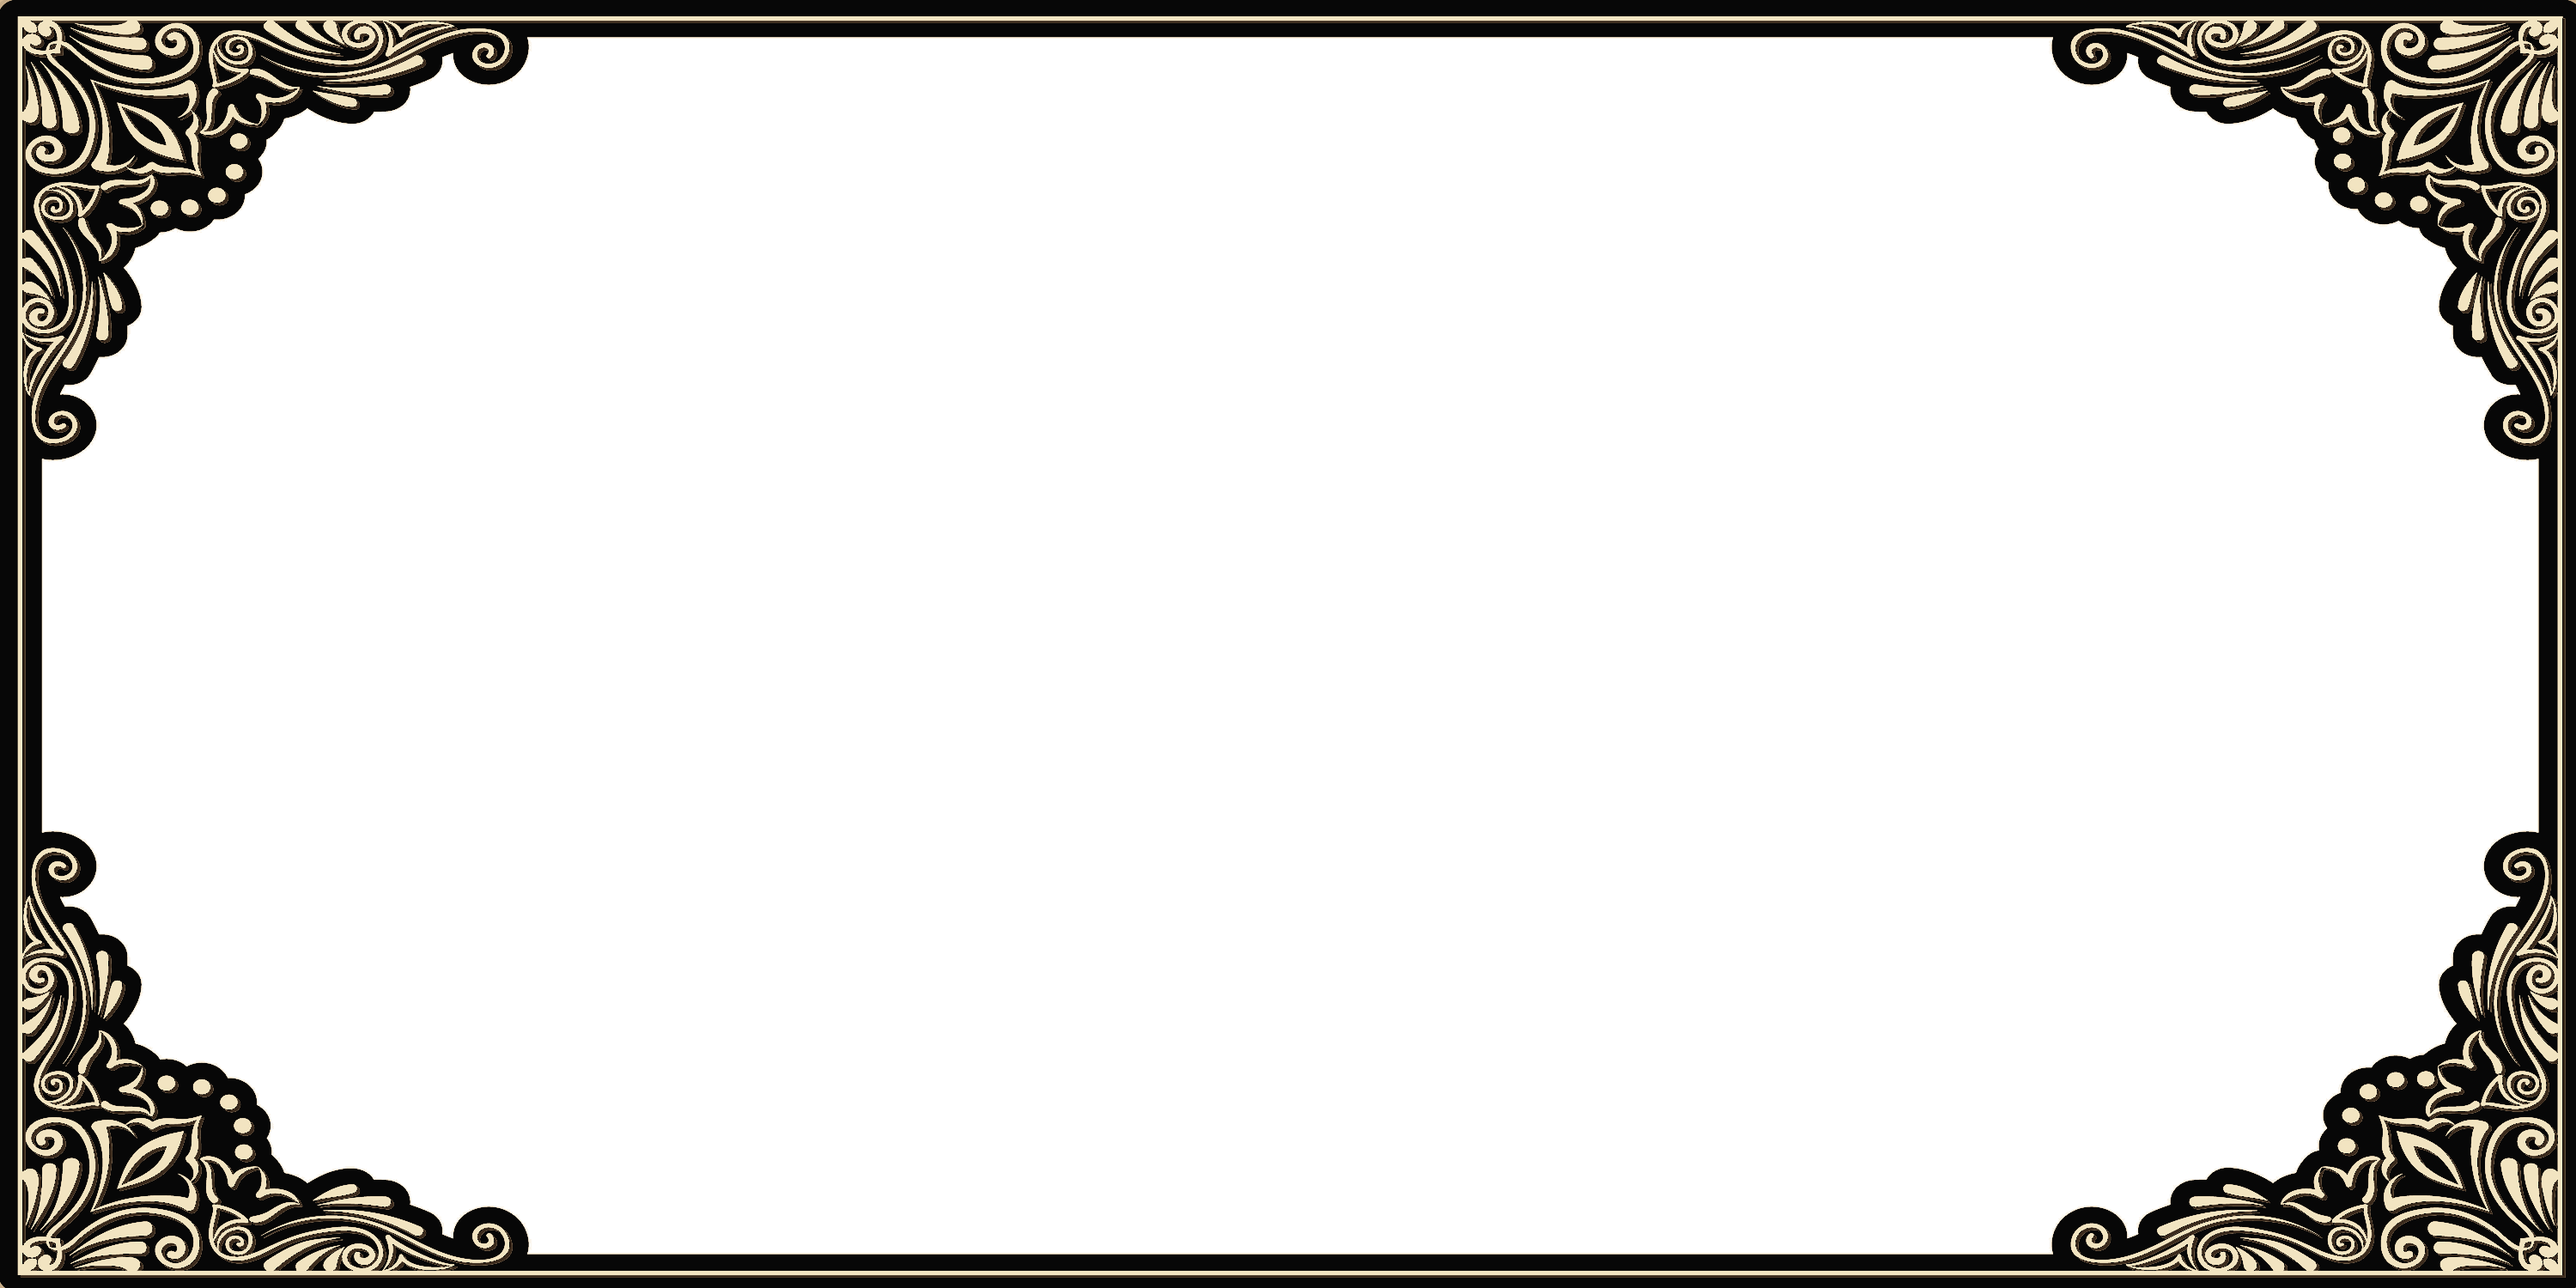
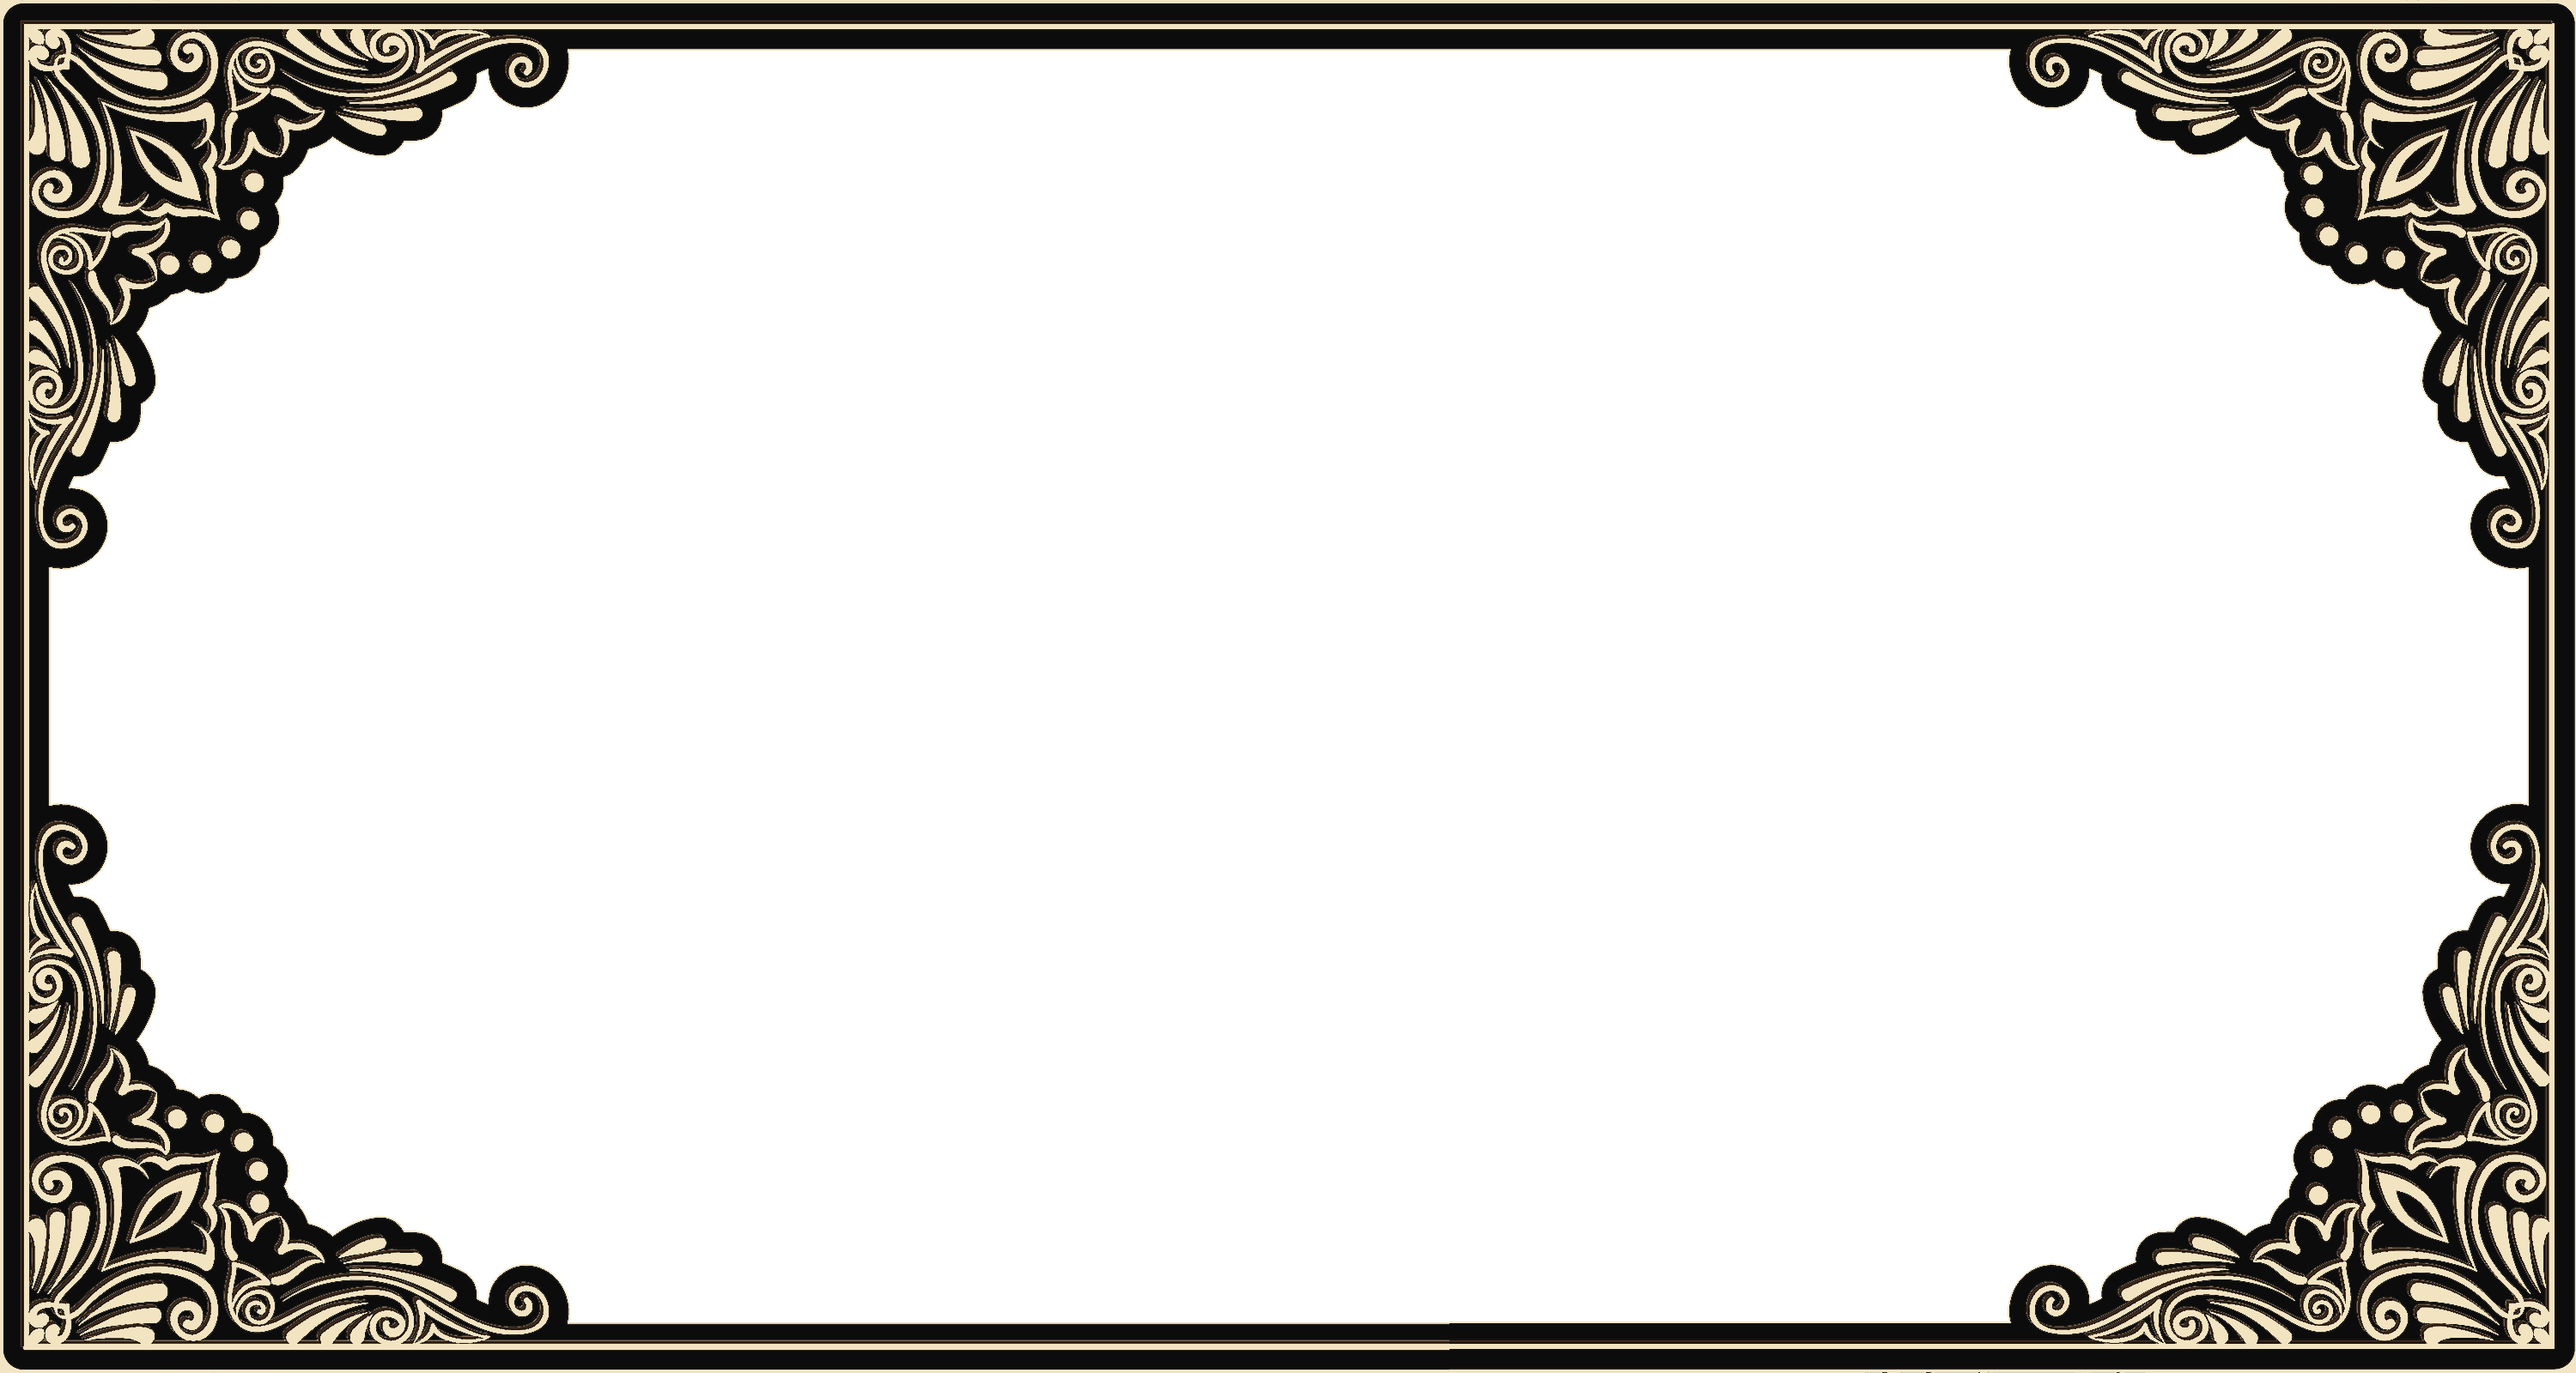
calendar edit

Changed region(s): [[0.0, 0.0, 1.0, 1.0]]

diff --git a/main.css b/main.css
@@ -400,7 +400,7 @@ body {
   opacity: 0;
 }
 
-.toogleItemShowRight{
+.toogleItemShowRight {
   transition: all 0.5s cubic-bezier(0.455, 0.03, 0.515, 0.955);
   right: 0;
   opacity: 1;
@@ -460,15 +460,15 @@ body {
 .cardName {
   position: absolute;
   font-size: 6px;
-  bottom: 3px;
-  left: 63px;
+  bottom: 6px;
+  left: 72px;
 }
 
 .cardRow {
   position: absolute;
   font-size: 11px;
-  bottom: 3px;
-  right: 63px;
+  bottom: 6px;
+  right: 72px;
   opacity: 0.45;
 }
 
@@ -505,7 +505,7 @@ body {
 .flip-card-back {
   background-color: #fff;
   background-image: url("./img/frame.png");
-  background-size: 100% 100%;
+  background-size: cover;
   background-repeat: no-repeat;
   background-position: center center;
 
@@ -572,8 +572,8 @@ body {
 
 .indicateFlip {
   position: absolute;
-  top: 0.7rem;
-  right: 2rem;
+  top: 18px;
+  right: 30px;
   transform: rotate(18deg);
   display: block;
   font-size: 0.9rem;
@@ -600,8 +600,8 @@ body {
 
 .progressFlip {
   position: absolute;
-  top: 15px;
-  left: 40px;
+  top: 18px;
+  left: 36px;
   opacity: 72%;
   color: #c70000;
   font-size: 1rem;
@@ -622,6 +622,8 @@ body {
   align-items: center;
   justify-content: space-between;
   background: #070707;
+  border-top: 0.1px solid #b5a9941f;
+  border-bottom: 0.1px solid #b5a9941f;
 }
 
 .myInputContainer .inputOrnamentCorner {
@@ -867,6 +869,8 @@ body {
   font-family: "Rubik", sans-serif;
   font-size: 12px;
   color: #636363;
+  display: flex;
+  flex-direction: column;
 }
 
 .calendarHeader {
@@ -883,14 +887,14 @@ body {
   justify-content: space-between;
 }
 
-.calendarFooter .weekTitle {
+.calendarCardContent .weekTitle {
   font-weight: lighter;
   border-top: 1px solid #17181a;
   border-bottom: 1px solid #17181a;
 }
 
 .weekDate {
-  height: 27px;
+  height: 30px;
   font-size: 13px;
   text-align: center;
   display: flex;
@@ -905,16 +909,18 @@ body {
   font-weight: bold;
 }
 
-.calendarCardDiv {
+.calendarBody {
   position: relative;
-  min-height: 190px;
+  height: calc(100vh - 245px);
   overflow: hidden;
+  position: relative;
 }
 
 .calendarCardImg {
-  background-size: cover;
-  background-position: center 90%;
-  filter: blur(6px);
+  background-size: 120%;
+  /* background-position: center 90%; */
+  background-position: bottom center;
+  filter: blur(3px);
   position: absolute;
   top: 0;
   right: 0;
@@ -925,7 +931,6 @@ body {
 
 .calendarCardNoise {
[1 lines of base64/hex data omitted]
-  filter: opacity(0.5);
   position: absolute;
   top: 0;
   right: 0;
@@ -934,19 +939,17 @@ body {
   z-index: 1;
 }
 
-.calendarFooter {
-  border-bottom: 1px solid #17181a;
-  padding: 0 9px;
+.calendarCardContent {
   position: absolute;
   top: 0;
   left: 0;
   right: 0;
   bottom: 0;
   z-index: 2;
-  background: #070707d9;
+  background: #070707e9;
 }
 
-.calendarFooter table {
+.calendarCardContent table {
   height: 185px;
   border-collapse: collapse;
   width: 100%;
@@ -1098,17 +1101,16 @@ body {
 
 .calendarItem {
   background: #fff;
-  width: 333px;
+  width: 380px;
   height: 45px;
   border: 1px solid #17181a;
-  border-radius: 3px;
   padding: 0 3px 6px 3px;
 }
 
 .calendarItemHeader {
   display: flex;
   justify-content: space-between;
-  font-size: 12px;
+  font-size: 10px;
   font-family: "Rubik", sans-serif;
   padding: 3px;
 }
@@ -1120,7 +1122,7 @@ body {
   font-size: 12px;
 }
 .calendarItemInput {
-  border: 0.5px solid #17181a;
+  border: 0.5px solid #dfdfdf;
   padding: 1px 9px;
   font-size: 12px;
   font-family: "Rubik", sans-serif;
@@ -1149,36 +1151,47 @@ body {
   margin-right: 5px;
 }
 /* ------------historytable----------- */
-.calendarBottom {
+.calendarCardContentBottom {
   display: flex;
   flex-direction: column;
   justify-content: center;
   align-items: center;
-  height: calc(100vh - 435px);
-  background: #0c0c0c;
+  width: 100%;
+  border-top: 1px solid #17181a;
 }
 
-.table {
+.tableHistory {
   width: 100%;
   font-size: 12px;
   font-family: "Rubik", sans-serif;
   display: flex;
-  justify-content: space-around;
+  flex-direction: column;
+  justify-content: center;
   align-items: center;
   margin-top: 6px;
 }
 
-.table button {
-  background: none;
+.historyBtn {
   outline: none;
   border: none;
   cursor: pointer;
-  width: 20px;
-  height: 100px;
+  width: 9px;
+  height: 9px;
+  border-radius: 50%;
+  background-color: #636366;
+  transition: all 0.3s ease;
+}
+
+.historyBtn:hover {
+  background-color: #fff;
+}
+
+.historyBtn:first-child {
+  margin-right: 3px;
 }
 
 .tableItem {
-  width: 333px;
+  width: 380px;
   display: flex;
   margin-bottom: 2px;
   justify-content: center;
@@ -1192,6 +1205,7 @@ body {
   color: #fff;
   position: relative;
   border: 1px solid #17181a;
+  background: #07070799;
   cursor: default;
 }
 
@@ -1200,9 +1214,10 @@ body {
   display: flex;
   align-items: center;
   padding: 3px 6px;
-  color: #636363;
+  color: #3c4049;
   position: relative;
   border: 1px solid #17181a;
+  background: #07070799;
   cursor: pointer;
 }
 
@@ -1222,20 +1237,17 @@ body {
 
 .desc {
   width: 73%;
-  background-color: #fff;
+  background-color: #fafafa99;
   display: flex;
   align-items: center;
   padding: 3px 3px 3px 15px;
   cursor: default;
-}
-
-#calendarContent {
-  padding: 3px;
+  color: #17181a;
 }
 
 /* ------------searchInput------------ */
 .contentBody {
-  height: calc(100vh - 247px);
+  height: calc(100vh - 245px);
   overflow-y: scroll;
   position: relative;
   background-size: cover;
@@ -1800,8 +1812,6 @@ div#contentBody {
     transform: translateY(0);
   }
 }
-
-
 
 @keyframes rotating {
   from {

diff --git a/main.html b/main.html
@@ -100,10 +100,10 @@
                 </div>
               </div>
             </div>
-            <div class="calendarCardDiv">
+            <div class="calendarBody">
               <div class="calendarCardImg"></div>
               <div class="calendarCardNoise"></div>
-              <div class="calendarFooter">
+              <div class="calendarCardContent">
                 <table id="dayNumber">
                   <thead>
                     <tr class="weekTitle">
@@ -132,29 +132,22 @@
                   </thead>
                   <tbody id="htmlDate"></tbody>
                 </table>
+                <div class="calendarCardContentBottom">
+                  <div class="tableHistory">
+                    <div id="historyTable"></div>
+                    <div>
+                      <button id="historyTableBtnLeft" class="historyBtn"></button>
+                      <button id="historyTableBtnRight" class="historyBtn"></button>
+                    </div>
+                  </div>
+                  <div id="calendarContent"></div>
+                </div>
               </div>
             </div>
           </div>
-          <div class="calendarBottom">
-            <div class="table">
-              <button id="historyTableBtnLeft">
-                <svg width="9" height="15.75" viewBox="0 0 9 15.75" fill="none" xmlns="http://www.w3.org/2000/svg"
-                  transform="scale(-1 1)">
-                  <path d="m1.688 1.125 6.75 6.75 -6.75 6.75" stroke="#636363" stroke-linecap="square"
-                    stroke-linejoin="round" stroke-width="1.125" />
-                </svg>
-              </button>
-              <div id="historyTable"></div>
-              <button id="historyTableBtnRight">
-                <svg width="9" height="15.75" viewBox="0 0 9 15.75" fill="none" xmlns="http://www.w3.org/2000/svg"
-                  version="1.1" xmlns:xlink="http://www.w3.org/1999/xlink">
-                  <path d="m1.688 1.125 6.75 6.75 -6.75 6.75" stroke="#636363" stroke-linecap="square"
-                    stroke-linejoin="round" stroke-width="1.125" />
-                </svg>
-              </button>
-            </div>
-            <div id="calendarContent"></div>
-          </div>
+
+
+
         </div>
       </div>
       <div class="mainFixedBottom">

diff --git a/mainGlobal.js b/mainGlobal.js
@@ -349,7 +349,6 @@ $('#historyTableBtnLeft').click(function (e) {
     if (btnIndex == 0) {
         renderHistoryTable(0)
         btnIndex = 0;
-        $('#historyTableBtnLeft').html('');
     }
 });
 
@@ -357,11 +356,6 @@ $('#historyTableBtnRight').click(function (e) {
     btnIndex++;
     if (btnIndex >= 0 && btnIndex <= dataHistory.length - 1) {
         renderHistoryTable(btnIndex);
-        $('#historyTableBtnLeft').html(`
-        <svg width="9" height="15.75" viewBox="0 0 9 15.75" fill="none" xmlns="http://www.w3.org/2000/svg" transform="scale(-1 1)">
-        <path d="m1.688 1.125 6.75 6.75 -6.75 6.75" stroke="#636363" stroke-linecap="square" stroke-linejoin="round" stroke-width="1.125"/>
-        </svg>
-        `);
     }
     if (btnIndex > dataHistory.length - 1) {
         setNextMonthTable();
@@ -989,7 +983,7 @@ const renderExplain = (text, headword, meaning) => {
       </div>
     </div>  
       `;
-      
+
     let newText = text.slice(0, -2);
     const re = new RegExp(`(${newText}\\w*)`, 'g');
     $("span.x").each(function () {
